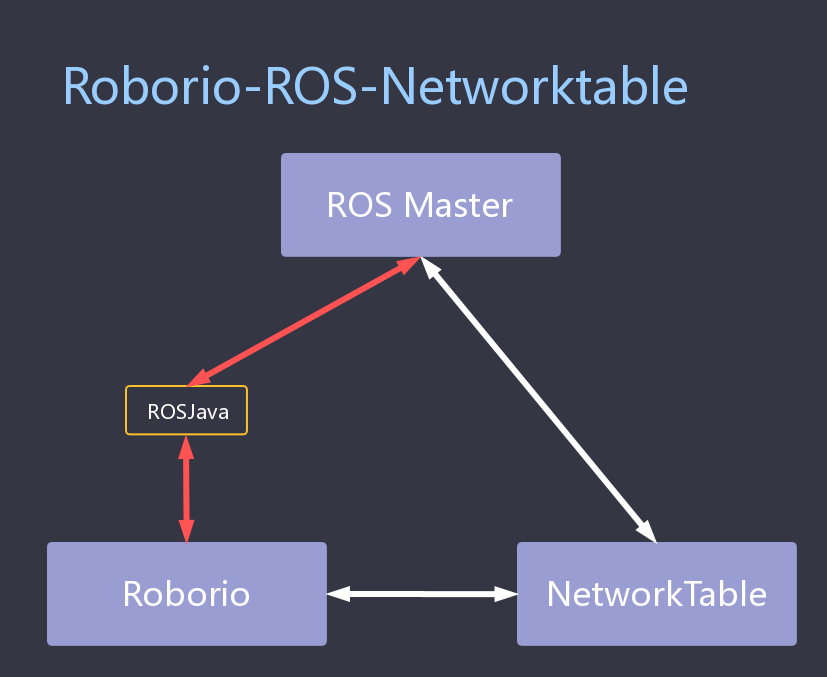
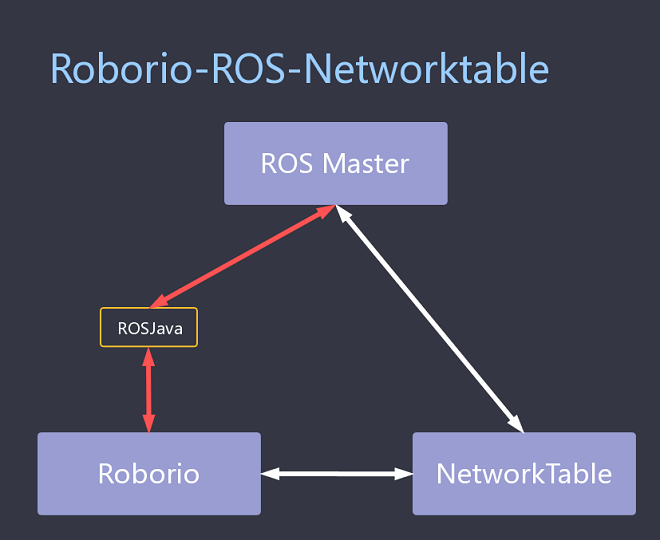
upadte README.md

diff --git a/README.md b/README.md
@@ -14,7 +14,9 @@ Shuffleboard is a useful tool in FRC competition used to visualize your code(dis
 ## Choosing a way to transmit data
 As I mentioned above, there are actually two ways to transmit data between ros master, roborio, driverstation computer. If you want to transmit the data that required high real-time level, such as "drivetrain speed" published in "cmd_vel" topic, you need to subscribe them on roborio by using rosjava subscriber, this method allows roborio and ros master to connect directly through radio (OM5P-AC router), because Networktable server is usually running on driverstation computer and may cause delay in the competition. If you just want to transmit data about robot/ros master status data, you can directly send it by using networktable in ros.
 
-![image](https://github.com/eddy20001118/Skoll-2019/blob/master/Roborio-ROS-NetworkTable.png)
+<div align="center"> 
+    <img src="https://github.com/eddy20001118/Skoll-2019/blob/master/Roborio-ROS-NetworkTable.png"/>
+</div>
 
 ### For C++ ROS Node
 If you wish to use C++ to programme in ros, please refer [here](https://github.com/eddy20001118/ROS-networktable) to explore an example C++ NetworkTable client in ROS Node.
